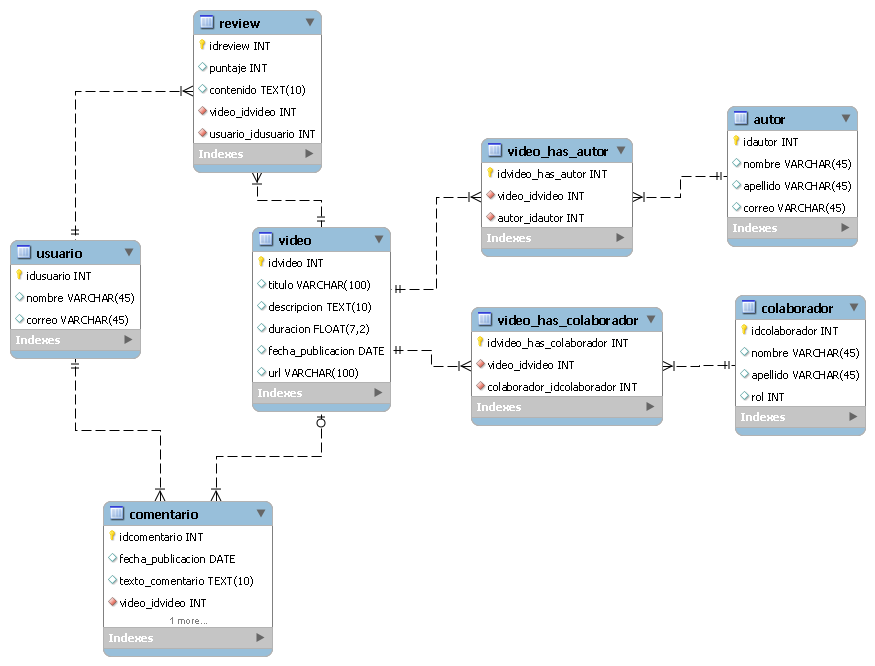
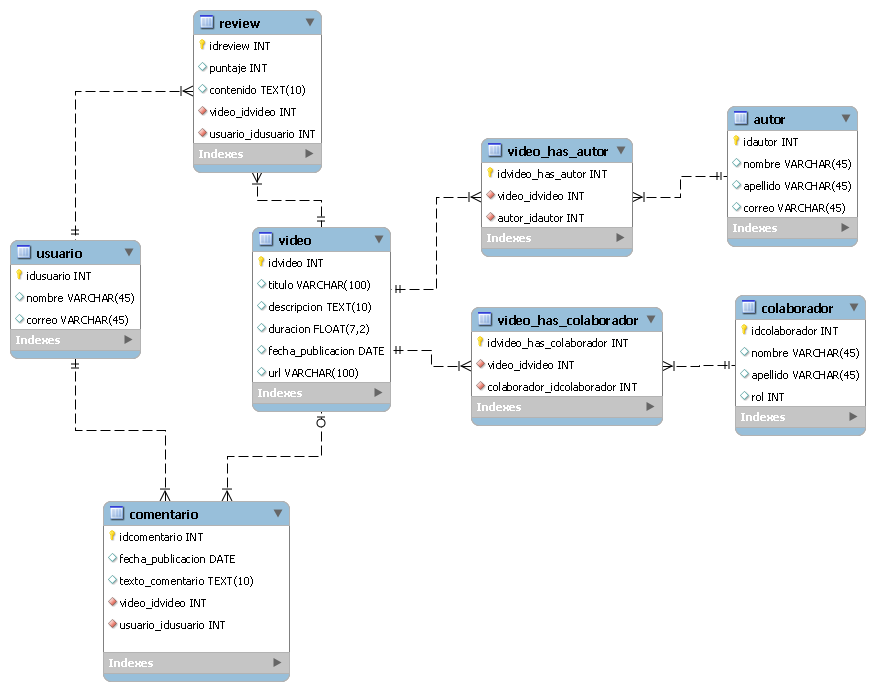
Se agrega archivo readme y desarrollo de los ejercicios

diff --git a/Ejercicio4/Readme.md b/Ejercicio4/Readme.md
@@ -1,0 +1,65 @@
+# Ejercicio4: Pensamiento lógico
+## Descripción 
+Imagina que estás construyendo un sistema de gestión de vídeos. Diseña un modelo de
+base de datos que incluya tablas para vídeos, autores, colaboradores, comentarios, reviews
+y usuarios. Asegúrate de incluir las claves primarias, las claves foráneas y las restricciones
+de integridad necesarias para que el sistema funcione correctamente.
+
+
+## Modelo de Base de Datos
+
+### Tabla: Video
+- **idvideo (PK):** Identificador único del vídeo.
+- **titulo:** Título del vídeo.
+- **descripcion:** Descripción del vídeo.
+- **duración:** Duración(tiempo) del vídeo.
+- **fecha_publicacion:** Fecha de publicación del vídeo.
+- **url:** URL  del vídeo.
+
+### Tabla: Autor
+- **autor_id (PK):** Identificador único del autor.
+- **nombre:** Nombre del autor.
+- **correo:** Correo electrónico del autor.
+
+### Tabla: Colaborador
+- **idcolaborador (PK):** Identificador único del colaborador.
+- **nombre:** Nombre del colaborador.
+- **apellido:** Apellido del colaborador.
+- **correo:** Correo electrónico del colaborador.
+- **rol:** Rol del colaborador en el video (Ej: Editor).
+
+### Tabla: Comentario
+- **idcomentario (PK):** Identificador único del comentario.
+- **fecha_publicacion (PK):** Fecha de publicación del comentario.
+- **texto_comentario:** Contenido del comentario.
+- **video_idvideo (FK):** Clave foránea que referencia al video relacionado
+- **usuario_idusuario (FK):** Clave foránea que referencia al usuario que realizo el comentario.
+
+### Tabla: Review
+- **idreview (PK):** Identificador único de la review.
+- **puntaje:** Puntuación asignada a la review.
+- **contenido:** Contenido de la review.
+- **usuario_idusuario (FK):** Clave foránea que referencia al usuario que hizo la review.
+- **video]_idvideo (FK):** Clave foránea que referencia al vídeo relacionado.
+
+### Tabla: Usuario
+- **idusuario (PK):** Identificador único del usuario.
+- **nombre:** Nombre del usuario.
+- **correo:** Correo electrónico del usuario.
+
+## Significado de Cada Tabla
+
+- **Vídeo:** Almacena información sobre los vídeos.
+- **Autor:** Contiene detalles sobre los autores.
+- **Colaborador:** Registra información sobre los colaboradores involucrados en la creación de los vídeos.
+- **Comentario:** Almacena comentarios realizados por usuarios en relación con los vídeos.
+- **Review:** Guarda las diferentes reseñas que los usuarios hacen sobre los vídeos.
+- **Usuario:** Contiene información sobre los usuarios del sistema.
+
+## Restricciones de integridad:
+
+* Cada vídeo debe tener varios autores.
+* Un autor puede tener varios vídeos.
+* Un colaborador puede participar en varios vídeos.
+* Un usuario puede realizar varios comentarios y reviews.
+* Un vídeo puede tener varios comentarios y reviews.

diff --git a/Readme.md b/Readme.md
@@ -1,0 +1,41 @@
+# Reto técnico BeMaster - Desarrollo Full Stack
+
+Este repositorio contiene el desarrollo de los diferentes retos de la prueba técnica enviados por la empresa BeMaster para aplicar a la vacante de desarrollo full stack.
+
+## Estructura
+El repositorio está organizado en diferentes carpetas, cada una de las cuales contiene la solución a un reto específico. 
+- **Reto1:** Desarrollo de la solución para el primer punto de la prueba sobre el consumo de APIs.
+- **Reto2:** Desarrollo de la solución para el primer punto de la prueba sobre la nomenclatura de código.
+- **Reto3:** Desarrollo de la solución para el primer punto de la prueba sobre pensamiento lógico.
+- **Reto4:** Desarrollo de la solución para el primer punto de la prueba sobre modelo de datos.
+- **Reto5:** Desarrollo de la solución para el primer punto de la prueba sobre arquitectura backend.
+- **Reto4:** Desarrollo de la solución para el primer punto de la prueba sobre politicas de nomenclatura para un equipo de desarrollo.
+
+## Tecnologías
+
+Las tecnologías utilizadas para el desarrollo de los retos son:
+
+* Node.js
+* Axios
+* Prompt
+
+## Instrucciones de Ejecución
+
+1. **Clonar el repositorio:**
+    ```bash
+    git clone https://github.com/mnbenavides/reto_bemaster.git
+    ```
+
+2. **Navegar a la carpeta del reto deseado:** Ejemlo -->
+    ```bash
+    cd repo-bemaster/Ejercicio1/gitHub-api-app
+    ```
+
+3. **Ejecutar la aplicación o script:**
+    Asegúrese de tener Node.js instalado en su máquina.
+
+4. **Sigua las instrucciones proporcionadas en cada reto para interactuar y visualizar los resultados.**
+
+Recuerde que las soluciones fueron desarrolladas utilizando Node.js, Axios y Prompt, por lo que es fundamental tener estas tecnologías instaladas para una ejecución exitosa.
+
+¡Gracias por considerarme para la vacante de desarrollo full stack en BeMaster! Estoy emocionado de compartir mi enfoque y soluciones a los retos propuestos. Si tiene alguna pregunta o comentario, no dude en ponerse en contacto.

diff --git a/Ejercicio1/Readme.md b/Ejercicio1/Readme.md
@@ -1,0 +1,43 @@
+# Ejercicio1: Consumo de APIs
+## Descripción 
+En este ejercicio aprenderás a crear una aplicación Node.js que consume la API de GitHub y muestra los 10 repositorios más populares del usuario "google".
+
+## Tecnologías y herramientas
+
+Las tecnologías y herramientas utilizadas para el desarrollo del reto es:
+
+* Node.js
+* Axios
+* Prompt
+* Postman
+
+## Instrucciones de Ejecución
+
+1. **Clonar el repositorio:**
+    ```bash
+    git clone https://github.com/mnbenavides/reto_bemaster.git
+    ```
+
+2. **Navegar a la carpeta de la solución:**
+    ```bash
+    cd repo-bemaster/Ejercicio1/gitHub-api-app
+    ```
+
+3. **Instalar dependencias**
+    ```bash
+    npm install
+    ```
+
+4. **Ejecutar la aplicación.**
+    ```bash
+    npm run dev
+    ```
+
+5. **Probar la aplicación de postman**
+    * Crea una nueva solicitud GET en Postman.
+    * Introduce la siguiente URL en la barra de     direcciones: http://localhost:3000/repositories
+    * Haz clic en "Enviar".
+
+## Resultado
+La aplicación enviar la respuesta en formato JSON para con sus respectivos campos.
+

diff --git a/Ejercicio3/Readme.md b/Ejercicio3/Readme.md
@@ -1,0 +1,38 @@
+# Ejercicio3: Pensamiento lógico
+## Descripción 
+Escribe una función que tome un número entero como entrada y devuelva un array con
+todos los números enteros impares desde 1 hasta el número de entrada. Por ejemplo, si el
+número de entrada es 9, la función debería devolver [1, 3, 5, 7, 9].
+
+## Tecnologías y herramientas
+
+Las tecnologías y herramientas utilizadas para el desarrollo del reto es:
+
+* Node.js
+* Prompt
+
+## Instrucciones de Ejecución
+
+1. **Clonar el repositorio:**
+    ```bash
+    git clone https://github.com/mnbenavides/reto_bemaster.git
+    ```
+
+2. **Navegar a la carpeta de la solución:**
+    ```bash
+    cd repo-bemaster/Ejercicio3/ObtenerImpares
+    ```
+
+3. **Instalar dependencias**
+    ```bash
+    npm install
+    ```
+
+4. **Ejecutar la aplicación.**
+    ```bash
+    node obtenerImpares.js
+    ```
+
+## Resultado
+La aplicación utiliza la función console.log() para mostrar los repositorios en la consola.
+

diff --git a/Ejercicio2/Readme.md b/Ejercicio2/Readme.md
@@ -1,0 +1,14 @@
+# Ejercicio2: Nomenclatura
+## Descripción 
+Reemplazar los nombres de las variables con nombres más descriptivos que reflejen mejor de la función dada:
+```javascript
+function f(x, y, z) {
+  let a = x + y;
+  let b = a * z;
+  let c = Math.sin(b);
+  return c;
+}
+```
+
+## Desarrollo
+En esta solución, he aplicado las mejores prácticas de programación al dar nombres descriptivos a las variables. Este enfoque mejora la legibilidad y comprensión del código.

diff --git a/Ejericicio5/Readme.md b/Ejericicio5/Readme.md
@@ -1,0 +1,8 @@
+# Ejercicio5: Arquitectura del backend
+## Descripción 
+Describe cómo estructurarías el backend de una aplicación de comercio electrónico. Habla
+sobre las tecnologías que utilizarías, la organización de los archivos, el uso de patrones de
+diseño, etc.
+
+## Desarrollo
+El desarrollo se documentó detalladamente en un documento Word. Consulte el documento "Arquitectura backend"

diff --git a/Ejericicio6/Readme.md b/Ejericicio6/Readme.md
@@ -1,0 +1,8 @@
+# Ejercicio6: Nomenclatura
+## Descripción 
+Crea un documento de políticas de nomenclatura para el equipo de desarrollo de una
+compañía, la política debe incluir nomenclatura de: bases de datos, variables, funciones,
+clases, git, etc.
+
+## Desarrollo
+El desarrollo se documentó detalladamente en un documento Word. Consulte el documento "Politicas de nomenclatura"
